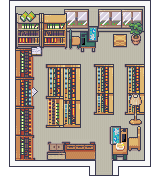
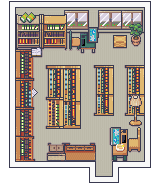
File changes

diff --git a/maps/KorytarzLewy.js b/maps/KorytarzLewy.js
@@ -53,7 +53,7 @@ window.OverworldMaps.KorytarzLewy = {
                 x: utils.withGrid(16),
                 y: utils.withGrid(1),
                 counter: 0,
-                src: "images/maps/KitchenUpper.png",
+                src: "images/maps/blank.png",
                 talking: [
                     {
                         events: [
@@ -72,7 +72,7 @@ window.OverworldMaps.KorytarzLewy = {
                 x: utils.withGrid(17),
                 y: utils.withGrid(1),
                 counter: 0,
-                src: "images/maps/KitchenUpper.png",
+                src: "images/maps/blank.png",
                 talking: [
                     {
                         events: [
@@ -91,7 +91,7 @@ window.OverworldMaps.KorytarzLewy = {
                 x: utils.withGrid(12),
                 y: utils.withGrid(3),
                 counter: 0,
-                src: "images/maps/KitchenUpper.png",
+                src: "images/maps/blank.png",
                 talking: [
                     {
                         events: [
@@ -104,7 +104,7 @@ window.OverworldMaps.KorytarzLewy = {
                 x: utils.withGrid(7),
                 y: utils.withGrid(3),
                 counter: 0,
-                src: "images/maps/KitchenUpper.png",
+                src: "images/maps/blank.png",
                 talking: [
                     {
                         events: [
@@ -117,7 +117,7 @@ window.OverworldMaps.KorytarzLewy = {
                 x: utils.withGrid(3),
                 y: utils.withGrid(3),
                 counter: 0,
-                src: "images/maps/KitchenUpper.png",
+                src: "images/maps/blank.png",
                 talking: [
                     {
                         events: [
@@ -130,7 +130,7 @@ window.OverworldMaps.KorytarzLewy = {
                 x: utils.withGrid(10),
                 y: utils.withGrid(3),
                 counter: 0,
-                src: "images/maps/KitchenUpper.png",
+                src: "images/maps/blank.png",
                 talking: [
                     {
                         events: [

diff --git a/maps/KorytarzPrawy.js b/maps/KorytarzPrawy.js
@@ -152,7 +152,7 @@ window.OverworldMaps.KorytarzPrawy = {
                 x: utils.withGrid(3),
                 y: utils.withGrid(7),
                 counter: 0,
-                src: "images/maps/KitchenUpper.png",
+                src: "images/maps/blank.png",
                 talking: [
                     {
                         events: [
@@ -165,7 +165,7 @@ window.OverworldMaps.KorytarzPrawy = {
                 x: utils.withGrid(7),
                 y: utils.withGrid(7),
                 counter: 0,
-                src: "images/maps/KitchenUpper.png",
+                src: "images/maps/blank.png",
                 talking: [
                     {
                         events: [
@@ -178,7 +178,7 @@ window.OverworldMaps.KorytarzPrawy = {
                 x: utils.withGrid(14),
                 y: utils.withGrid(7),
                 counter: 0,
-                src: "images/maps/KitchenUpper.png",
+                src: "images/maps/blank.png",
                 talking: [
                     {
                         events: [
@@ -191,7 +191,7 @@ window.OverworldMaps.KorytarzPrawy = {
                 x: utils.withGrid(17),
                 y: utils.withGrid(7),
                 counter: 0,
-                src: "images/maps/KitchenUpper.png",
+                src: "images/maps/blank.png",
                 talking: [
                     {
                         events: [
@@ -211,7 +211,7 @@ window.OverworldMaps.KorytarzPrawy = {
                 x: utils.withGrid(22),
                 y: utils.withGrid(5),
                 counter: 0,
-                src: "images/maps/KitchenUpper.png",
+                src: "images/maps/blank.png",
                 talking: [
                     {
                         events: [

diff --git a/maps/Biblioteka.js b/maps/Biblioteka.js
@@ -1,7 +1,6 @@
 window.OverworldMaps.Biblioteka = {
         id: "Biblioteka",
         lowerSrc: "images/maps/BibliotekaLower.png",
-        upperSrc: "images/maps/BibliotekaUpper.png",
         gameObjects: {
             bibliotekarka1: new Person({
                 x: utils.withGrid(8),
@@ -17,7 +16,7 @@ window.OverworldMaps.Biblioteka = {
                 x: utils.withGrid(7),
                 y: utils.withGrid(8),
                 counter: 0,
-                src: "images/maps/KitchenUpper.png",
+                src: "images/maps/blank.png",
                 talking: [
                     {
                         events: [
@@ -30,7 +29,7 @@ window.OverworldMaps.Biblioteka = {
                 x: utils.withGrid(3),
                 y: utils.withGrid(2),
                 counter: 0,
-                src: "images/maps/KitchenUpper.png",
+                src: "images/maps/blank.png",
                 talking: [
                     {
                         events: [
@@ -59,7 +58,7 @@ window.OverworldMaps.Biblioteka = {
                 x: utils.withGrid(5),
                 y: utils.withGrid(2),
                 counter: 0,
-                src: "images/maps/KitchenUpper.png",
+                src: "images/maps/blank.png",
                 talking: [
                     {
                         events: [

diff --git a/maps/School.js b/maps/School.js
@@ -66,7 +66,7 @@ window.OverworldMaps.School = {
                 x: utils.withGrid(8),
                 y: utils.withGrid(7),
                 counter: 0,
-                src: "images/maps/KitchenUpper.png",
+                src: "images/maps/blank.png",
                 talking: [
                     {
                         events: [
@@ -80,13 +80,13 @@ window.OverworldMaps.School = {
                 y: utils.withGrid(2),
                 pickUp: true,
                 counter: 0,
-                src: "images/maps/KitchenUpper.png",
+                src: "images/maps/blank.png",
             }),
             ksiazka: new Person({
                 x: utils.withGrid(16),
                 y: utils.withGrid(3),
                 counter: 0,
-                src: "images/maps/KitchenUpper.png",
+                src: "images/maps/blank.png",
                 talking: [
                     {
                         events: [
@@ -114,7 +114,7 @@ window.OverworldMaps.School = {
                 x: utils.withGrid(10),
                 y: utils.withGrid(6),
                 counter: 0,
-                src: "images/maps/KitchenUpper.png",
+                src: "images/maps/blank.png",
                 talking: [
                     {
                         events: [

diff --git a/js/OverworldMap.js b/js/OverworldMap.js
@@ -7,8 +7,10 @@ class OverworldMap {
         this.cutsceneSpaces = config.cutsceneSpaces || {};
         this.lowerImage = new Image();
         this.lowerImage.src = config.lowerSrc;
-        this.upperImage = new Image();
-        this.upperImage.src = config.upperSrc;
+        if(config.upperSrc){
+            this.upperImage = new Image();
+            this.upperImage.src = config.upperSrc;
+        }
         this.isCutscenePlaying = false;
         this.isPaused = false;
     }
@@ -16,7 +18,9 @@ class OverworldMap {
         ctx.drawImage(this.lowerImage, utils.withGrid(10.5) - cameraPerson.x, utils.withGrid(6) - cameraPerson.y);
     }
     drawUpperImage(ctx, cameraPerson) {
-        ctx.drawImage(this.upperImage, utils.withGrid(10.5) - cameraPerson.x, utils.withGrid(6) - cameraPerson.y);
+        if(this.upperImage){
+            ctx.drawImage(this.upperImage, utils.withGrid(10.5) - cameraPerson.x, utils.withGrid(6) - cameraPerson.y);
+        }
     }
     isSpaceTaken(currentX, currentY, direction) {
         const {x,y} = utils.nextPosition(currentX, currentY, direction);

diff --git a/maps/Pielegniarka.js b/maps/Pielegniarka.js
@@ -1,14 +1,13 @@
 window.OverworldMaps.Pielegniarka = {
         id: "Pielegniarka",
         lowerSrc: "images/maps/PielegniarkaLower.png",
-        upperSrc: "images/maps/PielegniarkaUpper.png",
         gameObjects: {
             Klucz_Schron: new Person({
                 x: utils.withGrid(0),
                 y: utils.withGrid(9),
                 pickUp: true,
                 counter: 0,
-                src: "images/maps/KitchenUpper.png",
+                src: "images/maps/blank.png",
             }),
             ranny: new Person({
                 x: utils.withGrid(1),
@@ -45,7 +44,7 @@ window.OverworldMaps.Pielegniarka = {
                 x: utils.withGrid(2),
                 y: utils.withGrid(3),
                 counter: 0,
-                src: "images/maps/KitchenUpper.png",
+                src: "images/maps/blank.png",
                 talking: [
                     {
                         events: [

diff --git a/maps/KorytarzLewy1.js b/maps/KorytarzLewy1.js
@@ -1,7 +1,6 @@
 window.OverworldMaps.KorytarzLewy1 = {
   id: "KorytarzLewy1",
   lowerSrc: "images/maps/KorytarzLewy1Lower.png",
-  upperSrc: "images/maps/KitchenUpper.png",
   gameObjects: {
       hero: new Person({
           isPlayerControlled: true,
@@ -13,7 +12,7 @@ window.OverworldMaps.KorytarzLewy1 = {
           x: utils.withGrid(12),
           y: utils.withGrid(2),
           counter: 0,
-          src: "images/maps/KitchenUpper.png",
+          src: "images/maps/blank.png",
           talking: [
               {
                   events: [
@@ -52,7 +51,7 @@ window.OverworldMaps.KorytarzLewy1 = {
         x: utils.withGrid(7),
         y: utils.withGrid(2),
         counter: 0,
-        src: "images/maps/KitchenUpper.png",
+        src: "images/maps/blank.png",
         talking: [
             {
                 events: [

diff --git a/maps/Szafki2.js b/maps/Szafki2.js
@@ -1,13 +1,12 @@
 window.OverworldMaps.Szafki2 = {
         id: "Szafki2",
         lowerSrc: "images/maps/Szafki2Lower.png",
-        upperSrc: "images/maps/Szafki2Upper.png",
         gameObjects: {
         szafka: new Person({
                 x: utils.withGrid(5),
                 y: utils.withGrid(2),
                 counter: 0,
-                src: "images/maps/KitchenUpper.png",
+                src: "images/maps/blank.png",
                 talking: [],
             }),
         hero: new Person({

diff --git a/maps/Bilard.js b/maps/Bilard.js
@@ -1,10 +1,9 @@
 window.OverworldMaps.Bilard = {
         id: "Bilard",
         lowerSrc: "images/maps/BilardLower.png",
-        upperSrc: "images/maps/KitchenUpper.png",
         gameObjects: {
             placeholder: new Person({
-               src: "images/maps/KitchenUpper.png"
+               src: "images/maps/blank.png"
             }),
             hero: new Person({
                 isPlayerControlled: true,

diff --git a/maps/Pilki.js b/maps/Pilki.js
@@ -1,10 +1,9 @@
 window.OverworldMaps.Pilki = {
         id: "Pilki",
         lowerSrc: "images/maps/PilkiLower.png",
-        upperSrc: "images/maps/KitchenUpper.png",
         gameObjects: {
             placeholder: new Person({
-               src: "images/maps/KitchenUpper.png"
+               src: "images/maps/blank.png"
             }),
             hero: new Person({
                 isPlayerControlled: true,

diff --git a/maps/Szafki.js b/maps/Szafki.js
@@ -1,10 +1,9 @@
 window.OverworldMaps.Szafki = {
         id: "Szafki",
         lowerSrc: "images/maps/SzafkiLower.png",
-        upperSrc: "images/maps/KitchenUpper.png",
         gameObjects: {
         placeholder: new Person({
-               src: "images/maps/KitchenUpper.png"
+               src: "images/maps/blank.png"
             }),
         hero: new Person({
                 isPlayerControlled: true,

diff --git a/maps/S14.js b/maps/S14.js
@@ -1,10 +1,9 @@
 window.OverworldMaps.S14 = {
         id: "S14",
         lowerSrc: "images/maps/S14Lower.png",
-        upperSrc: "images/maps/KitchenUpper.png",
         gameObjects: {
             placeholder: new Person({
-               src: "images/maps/KitchenUpper.png"
+               src: "images/maps/blank.png"
             }),
             hero: new Person({
                 isPlayerControlled: true,
